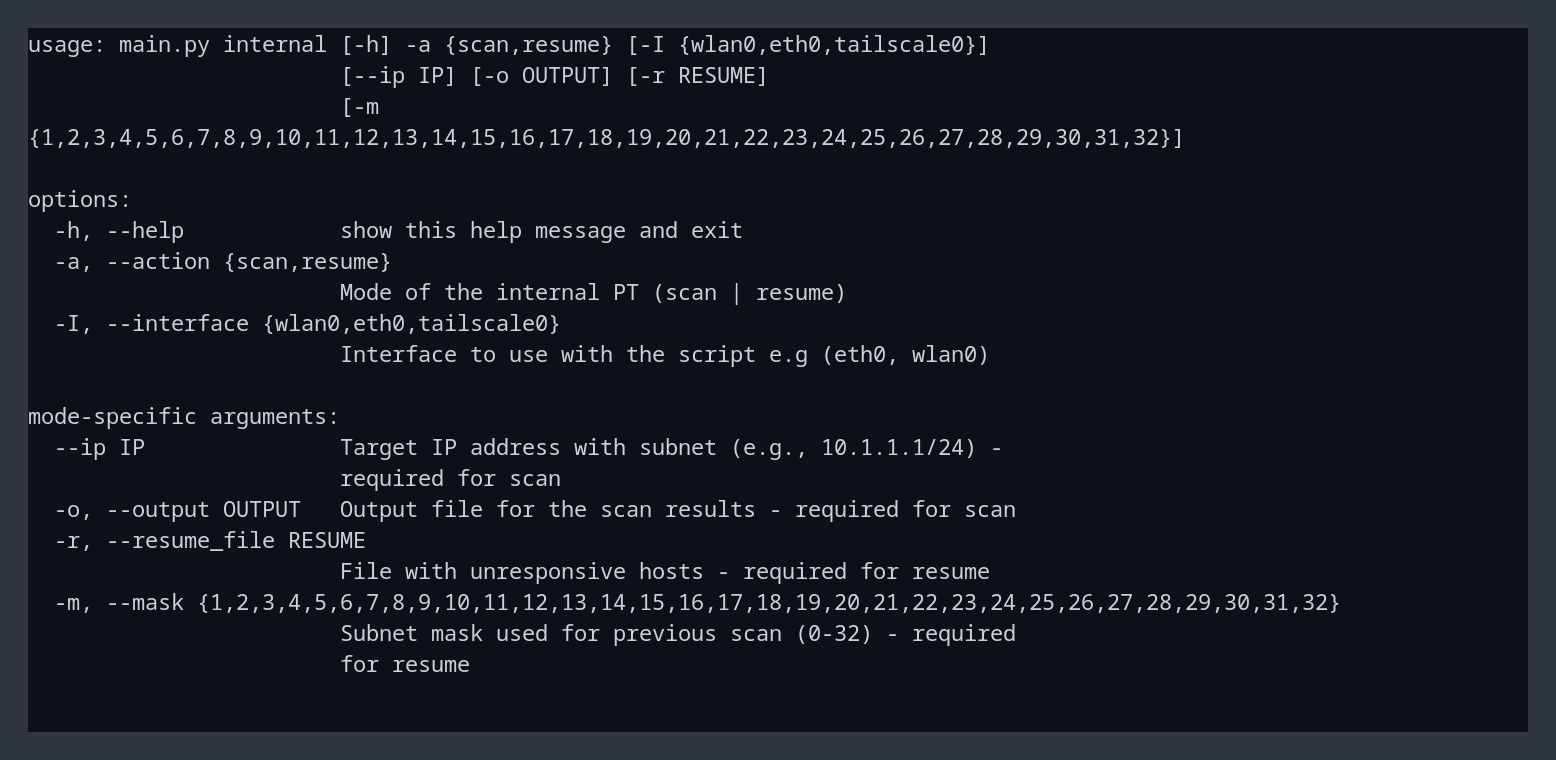
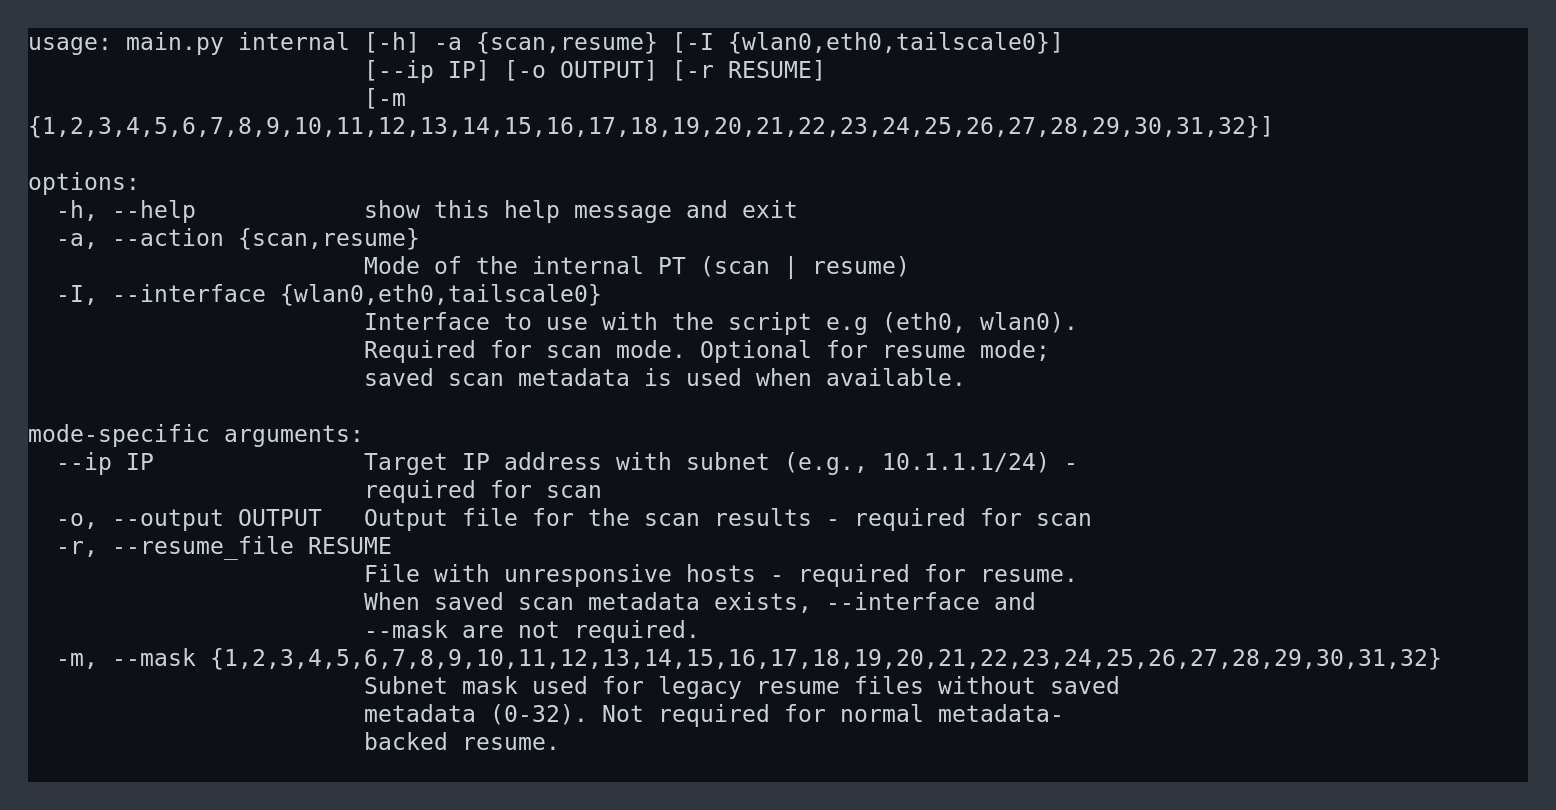
Align internal resume CLI with interactive flow
Security-Impact: low; CLI resume metadata handling and docs only

Security-Tests: python scripts/security_gate.py; metadata-backed CLI resume smoke check; python main.py -M cli_args internal -h help check

Security-Checklist: done

diff --git a/handlers/interaction.py b/handlers/interaction.py
@@ -364,7 +364,10 @@ class InteractionHandler:
 
         interface_kwargs = {
             "required": False,
-            "help": interface_help,
+            "help": (
+                f"{interface_help}. Required for scan mode. Optional for resume mode; "
+                "saved scan metadata is used when available."
+            ),
         }
         if interface_choices:
             interface_kwargs["choices"] = interface_choices
@@ -384,14 +387,20 @@ class InteractionHandler:
             "-r",
             "--resume_file",
             dest="resume",
-            help="File with unresponsive hosts - required for resume",
+            help=(
+                "File with unresponsive hosts - required for resume. "
+                "When saved scan metadata exists, --interface and --mask are not required."
+            ),
         )
         mode_group.add_argument(
             "-m",
             "--mask",
             type=int,
             choices=range(1, 33),
-            help="Subnet mask used for previous scan (0-32) - required for resume",
+            help=(
+                "Subnet mask used for legacy resume files without saved metadata "
+                "(0-32). Not required for normal metadata-backed resume."
+            ),
         )
 
     # Handlers for each module
@@ -654,7 +663,9 @@ class InteractionHandler:
                         "Resume blocked: no similar active interface detected for "
                         f"{os.path.basename(resume_file)}."
                     )
-                print(matched_interface)
+                print("\n[-] Resume metadata loaded from saved scan session")
+                print(f"[-] Using interface: {matched_interface}")
+                print(f"[-] Using subnet: {subnet}")
                 print(
                     f"\n[-] Resuming previous scan from File: {os.path.basename(resume_file)} "
                     f"using saved subnet {subnet}"
@@ -669,8 +680,10 @@ class InteractionHandler:
 
             if not (interface and mask):
                 raise ValueError(
-                    "No saved session metadata found. Provide --interface and --mask "
-                    "for legacy resume mode."
+                    "No saved session metadata found for this resume file. "
+                    "Normal CLI resume does not require --interface or --mask when "
+                    "the unresponsive-host file was created by a metadata-backed scan. "
+                    "For legacy files only, provide --interface and --mask."
                 )
 
             print(

diff --git a/utils/shared/config.py b/utils/shared/config.py
@@ -48,8 +48,8 @@ This is a custom CLI tool for Penetration Testing.
                 --ip                 IP_CIDR            : Ip address to scan in format (10.0.0.0/24)
             <resume>
                 -r, --resume_file    FILE               : File with unresponsive hosts
-                -m, --mask           MASK               : Subnet mask used for previous scan
-        -I, --interface              INTERFACE          : The network interface to use on the scan (eth0,wlan0)
+                -m, --mask           MASK               : Legacy-only subnet mask when no saved scan metadata exists
+        -I, --interface              INTERFACE          : Required for scan; optional for metadata-backed resume
 
     {self.color.OKCYAN}[mobile]{self.color.ENDC}
         -P, --path                   FILE/FOLDER        : Path to mobile app file (apk|ipa) or directory with apps
@@ -99,7 +99,8 @@ This is a custom CLI tool for Penetration Testing.
             Scan:
                 main.py -M cli_args internal -a scan  -I eth0 --ip 10.10.10.2/24 -o scan_results.txt
             Resume:
-                main.py -M cli_args internal -a resume -I eth0  -r unresponsive_hosts.txt -m 24
+                main.py -M cli_args internal -a resume -r output_directory/Internal/scan_results_unresponsive_hosts.csv
+                main.py -M cli_args internal -a resume -I eth0 -r legacy_unresponsive_hosts.txt -m 24
         
         3.{self.color.WARNING}Password:{self.color.ENDC}
             test:

diff --git a/README.md b/README.md
@@ -107,12 +107,10 @@ python main.py -M cli_args internal \
 ```sh
 python main.py -M cli_args internal \
   -a resume \
-  -I eth0 \
-  -r output_directory/Internal/internal_scan_unresponsive_hosts.csv \
-  -m 24
+  -r output_directory/Internal/internal_scan_unresponsive_hosts.csv
 ```
 
-Resume mode sorts the unresponsive IP list, identifies the last saved IP, and continues from there. Session metadata is stored under `output_directory/Internal/.scan_state/` to support safer continuation.
+Resume mode uses saved scan-session metadata to recover the subnet and matching active interface automatically, so normal CLI resume does not require `-I/--interface` or `-m/--mask`. Session metadata is stored under `output_directory/Internal/.scan_state/` to support safer continuation. Legacy unresponsive-host files without metadata can still be resumed by passing `-I/--interface` and `-m/--mask`.
 
 ## Vulnerability Analysis
 